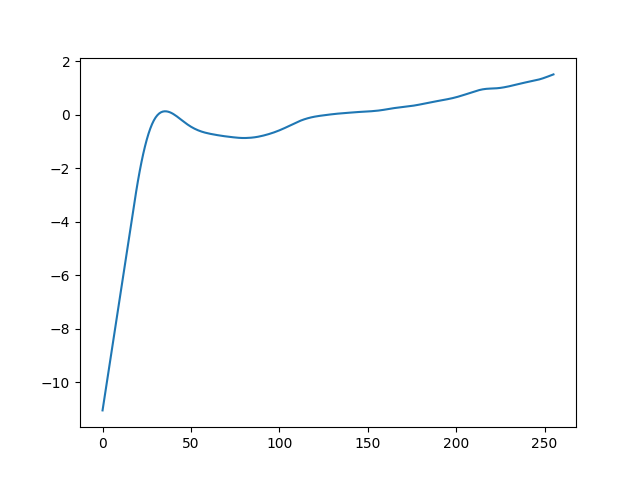
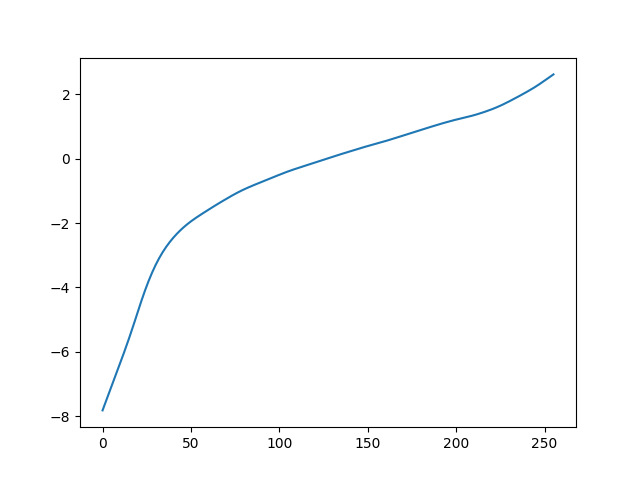
fix bug

diff --git a/hdr.py b/hdr.py
@@ -13,6 +13,7 @@ valid_image = ['.jpg','.png']
 
 # TODO : read shutter speed by read txt
 shutter_speed_list = np.array([0.03125,0.0625,0.125,0.25,0.5,1,2,4,8,16,32,64,128,256,512,1024])
+shutter_speed_list = np.array([0.03125,0.0625,0.125,0.25,0.5,1,2,4])
 shutter_speed_list = np.reciprocal(shutter_speed_list)
 weight_function = np.zeros(256, dtype=np.float64)
 ZMIN = 0
@@ -28,10 +29,11 @@ def read_img(path):
     for filename in sorted(os.listdir(path)):
         ext = os.path.splitext(filename)[1]
         # only read .jpg / .png
-        if ext.lower() in valid_image:
-            im = cv2.imread(os.path.join(path,filename))
-            image_list.append(np.array(im))
-            count += 1
+        if count < 8:
+            if ext.lower() in valid_image:
+                im = cv2.imread(os.path.join(path,filename))
+                image_list.append(np.array(im))
+                count += 1
     image_list = np.array(image_list)
     # image_list shape : (number_of_image, image.shape[0], image.shape[1], 3)
     return image_list
@@ -133,8 +135,8 @@ if __name__ == '__main__':
     image_list = read_img(path)
 
     # aglin image
-    alignMTB = cv2.createAlignMTB()
-    alignMTB.process(image_list, image_list)
+    # alignMTB = cv2.createAlignMTB()
+    # alignMTB.process(image_list, image_list)
 
     # weighting function : ppt page 32
     make_weight_function()
@@ -149,7 +151,10 @@ if __name__ == '__main__':
         response_curve = gslove(image_list, sample_int, 100, i)
 
         # reconstruct radiance map
-        radiance_img.append(reconstruct_radiance_map(image_list, response_curve, i))
+        
+        tmp_i = reconstruct_radiance_map(image_list, response_curve, i)
+        tmp_i = cv2.normalize(tmp_i, None, alpha=0, beta=255, norm_type=cv2.NORM_MINMAX)
+        radiance_img.append(tmp_i)
 
     radiance_img = np.array(radiance_img)
     
@@ -163,4 +168,4 @@ if __name__ == '__main__':
     # cv2.imwrite(out_dir+'test_out.hdr',output)
     # output = tone_mapping(output, 1.5)
     # output = cv2.normalize(output, None, alpha=0, beta=255, norm_type=cv2.NORM_MINMAX)
-    # cv2.imwrite(out_dir+'test_out.png',output)
+    cv2.imwrite(out_dir+'test_out.png',output)
